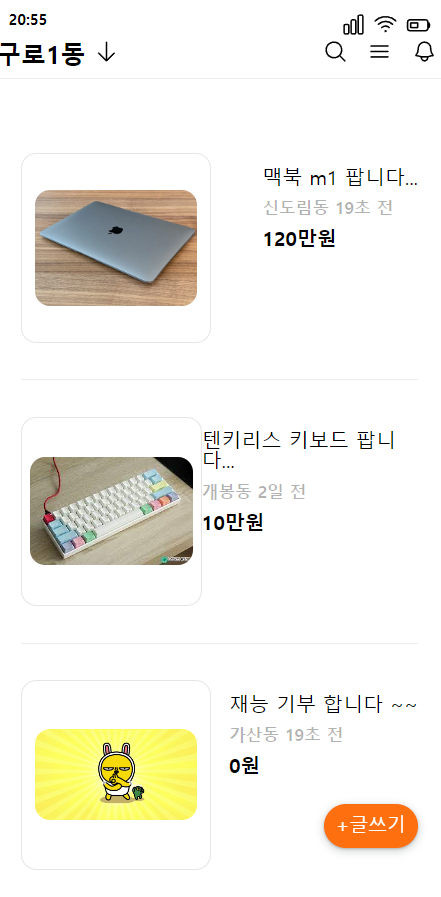
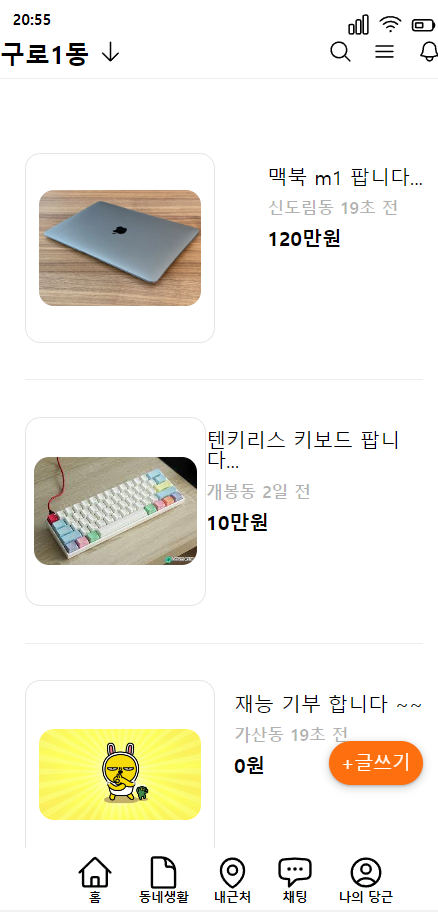
footer 메뉴바 추가

diff --git a/index.html b/index.html
@@ -79,9 +79,30 @@
           <div class="item-list__info-price">100만원</div>
         </div>
       </div>
-      <div class="write-btn">+글쓰기</div>
     </main>
-    <footer></footer>
+    <footer>
+      <div class="navbar-element">
+        <img src="asset/home.svg" />
+        <span>홈</span>
+      </div>
+      <div class="navbar-element">
+        <img src="asset/document.svg" />
+        <span>동네생활</span>
+      </div>
+      <div class="navbar-element">
+        <img src="asset/location.svg" />
+        <span>내근처</span>
+      </div>
+      <div class="navbar-element">
+        <img src="asset/chat.svg" />
+        <span>채팅</span>
+      </div>
+      <div class="navbar-element">
+        <img src="asset/my.svg" />
+        <span>나의 당근</span>
+      </div>
+    </footer>
+    <div class="write-btn">+글쓰기</div>
     <div class="media-info-msg">화면을 줄여주세요.</div>
   </body>
 </html>

diff --git a/style/footer.css b/style/footer.css
@@ -1,0 +1,28 @@
+footer {
+  display: flex;
+  justify-content: center;
+  align-items: center;
+  position: absolute;
+  width: 100vw;
+  position: fixed;
+  bottom: 0;
+  background-color: white;
+}
+
+.navbar-element {
+  display: flex;
+  justify-content: center;
+  align-items: center;
+  flex-direction: column;
+  padding: 5px 10px 5px 10px;
+  border: 1px solid 1;
+  border-radius: 5px;
+}
+
+.navbar-element img {
+  width: 30px;
+}
+.navbar-element span {
+  font-size: 8px;
+  font-weight: bold;
+}

diff --git a/style/main.css b/style/main.css
@@ -55,7 +55,7 @@ main {
   position: fixed;
   padding: 10px 10px 10px 10px;
   right: 20px;
-  bottom: 50px;
+  bottom: 100px;
   background-color: #fe6f0f;
   color: white;
   font-size: 15px;
